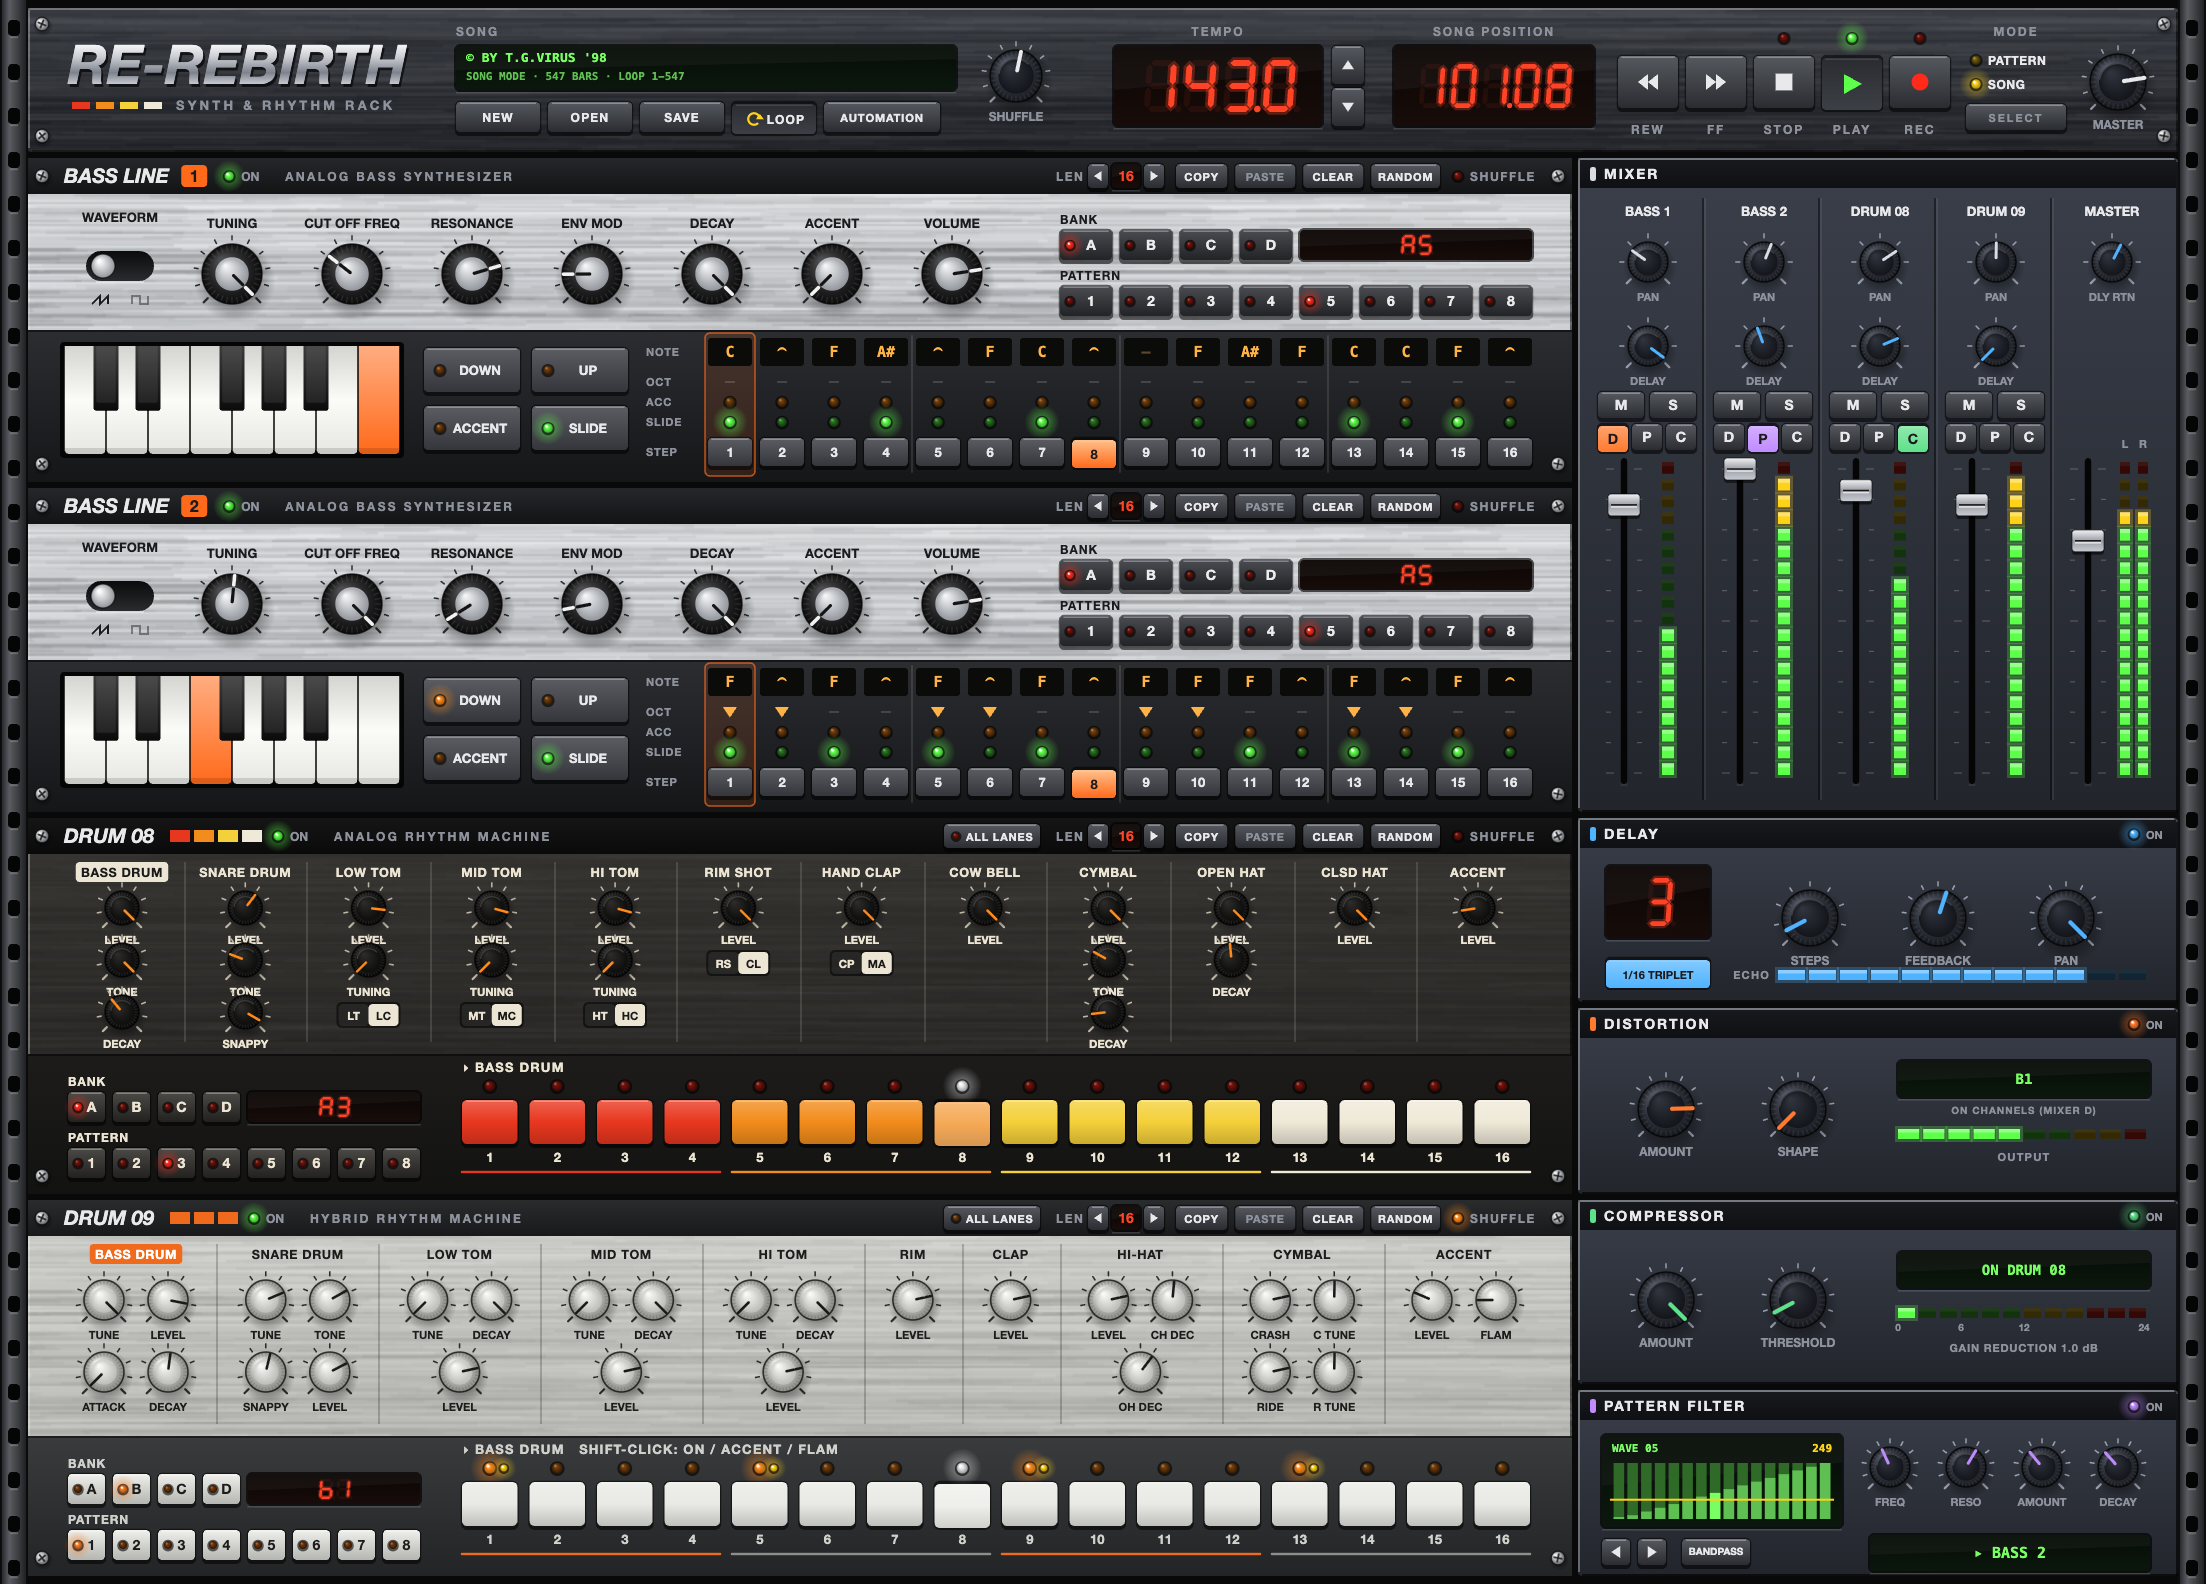
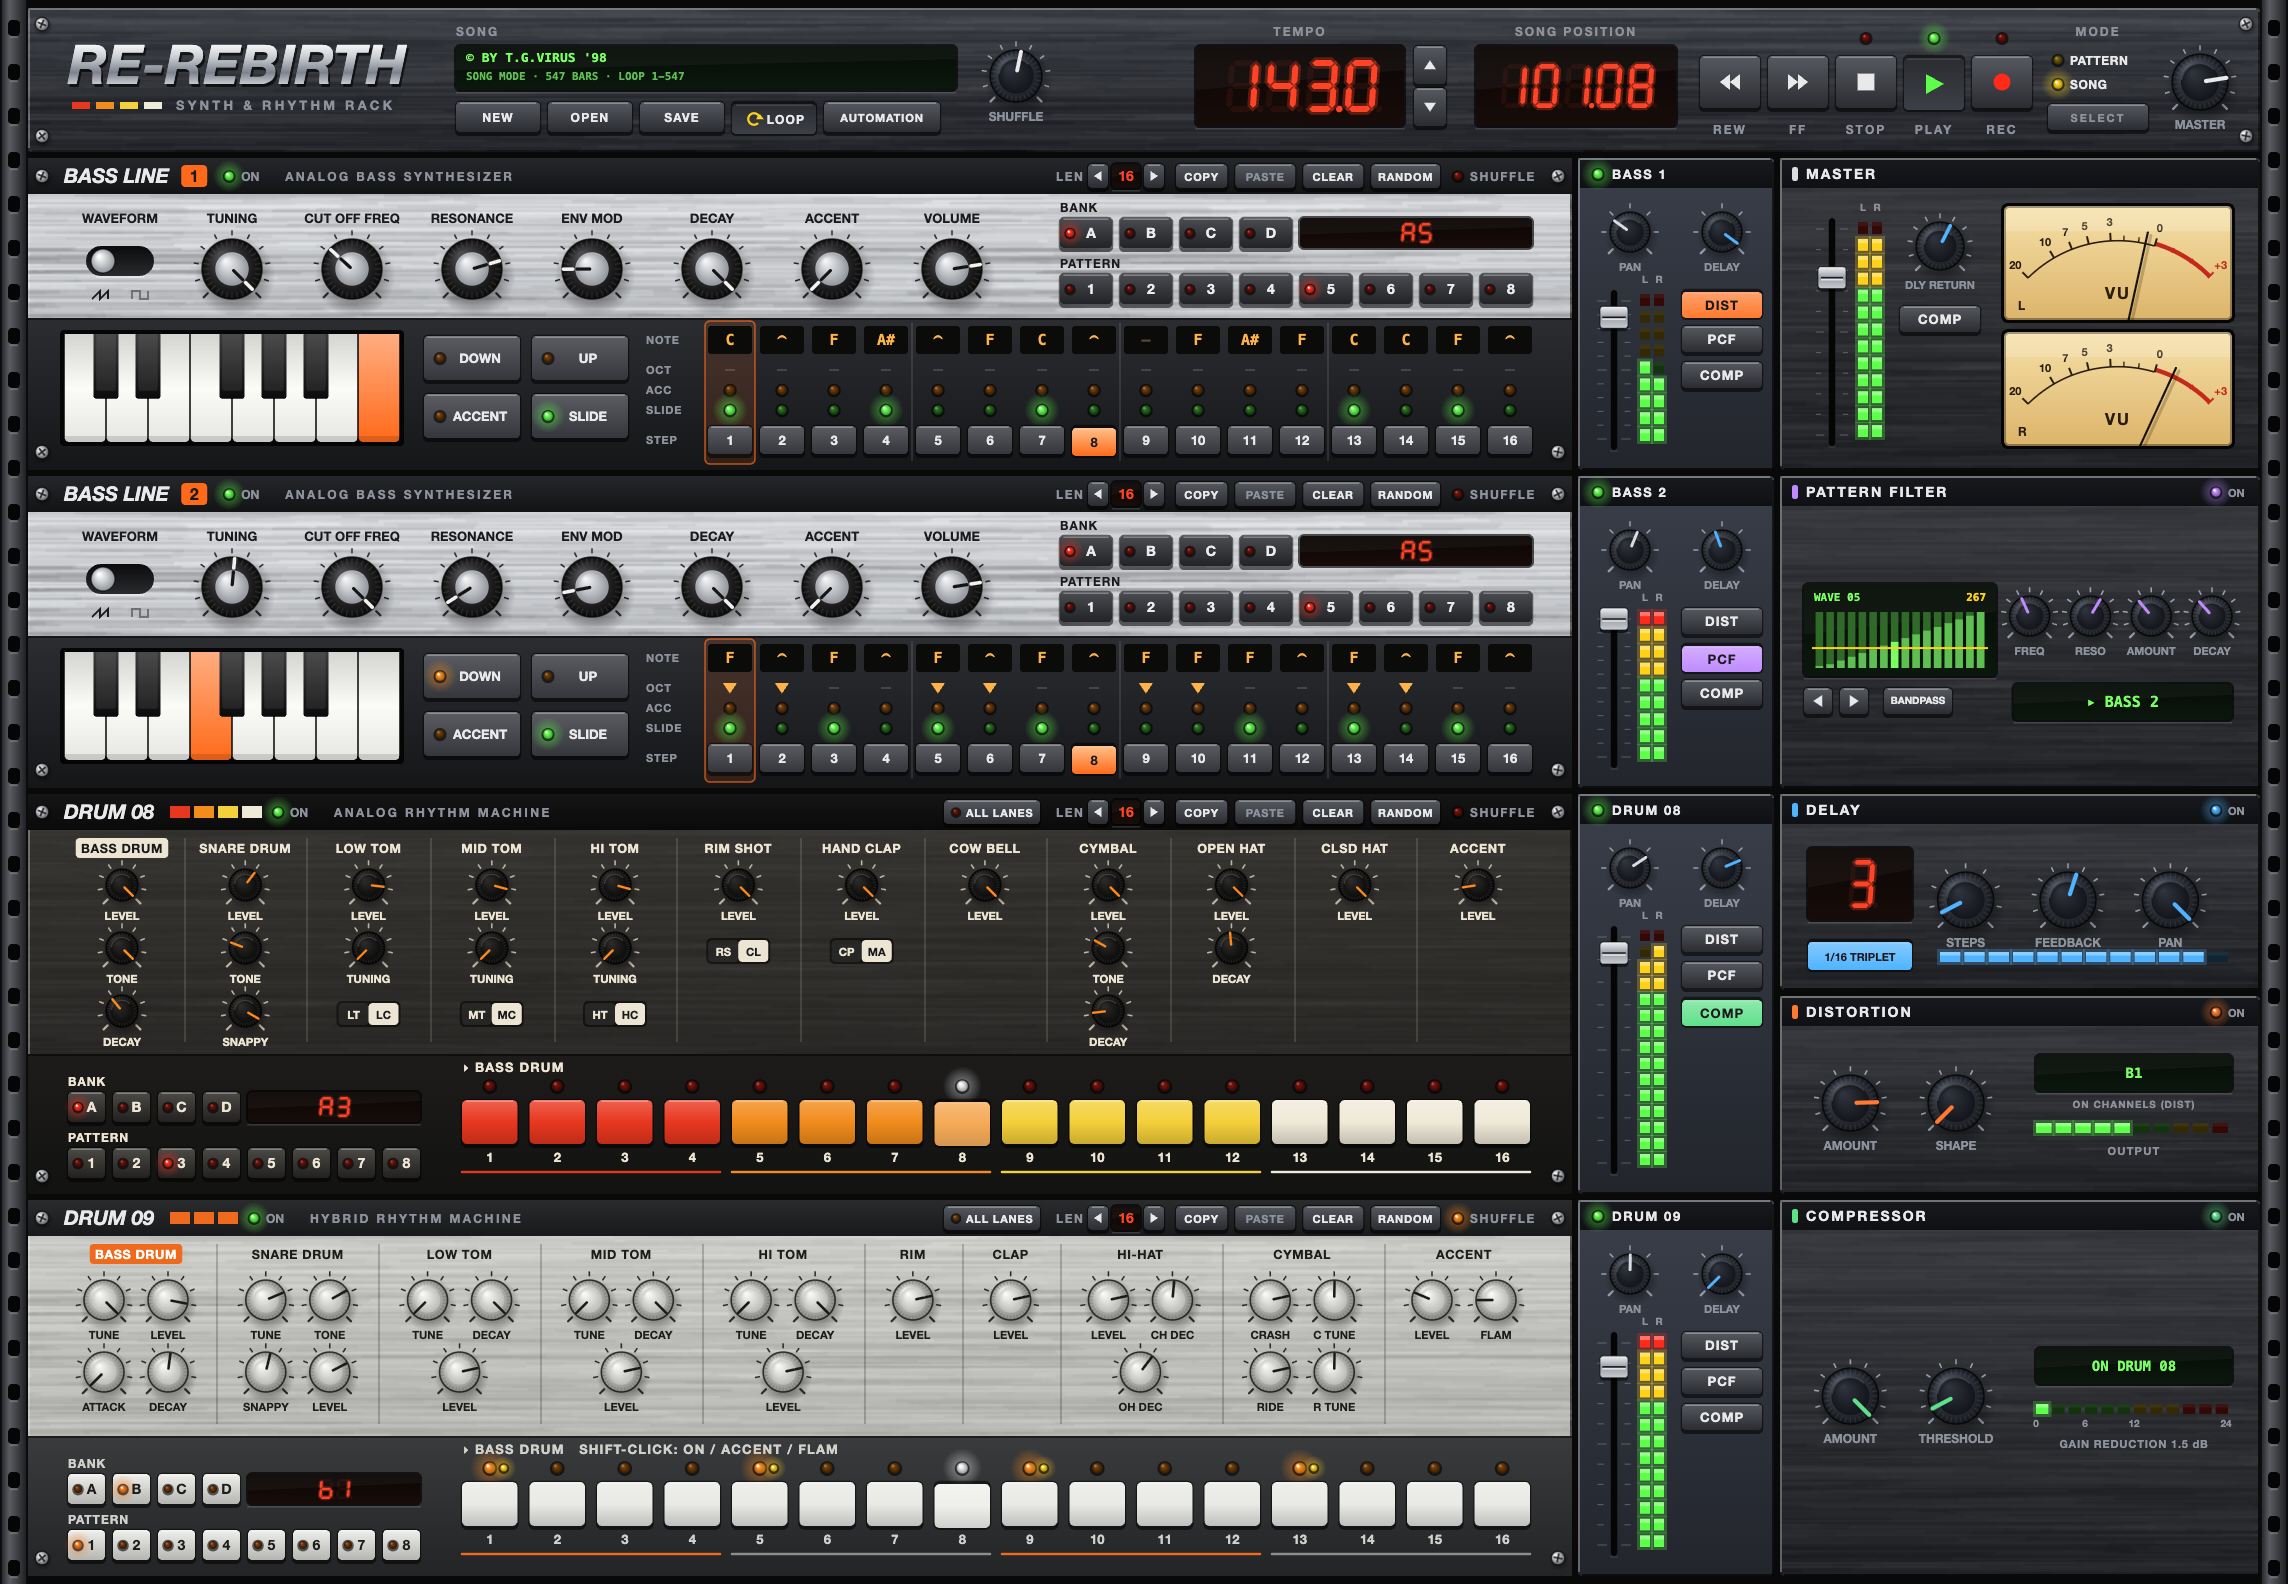
Release 0.3.0 with a fresh screenshot
Channel strips and the master's meters change how the rack looks, so the
README screenshot is retaken; the script that takes it now lives in tools/
so the next one is one command.

diff --git a/README.md b/README.md
@@ -1,6 +1,6 @@
 # Re-Rebirth
 
-A tribute to [ReBirth RB-338](https://en.wikipedia.org/wiki/ReBirth_RB-338) in the browser: two acid bass lines, two drum machines, a mixer with effects, and a pattern/song sequencer. It opens original ReBirth 2.0 songs (`.rbs`) and plays them back.
+A tribute to [ReBirth RB-338](https://en.wikipedia.org/wiki/ReBirth_RB-338) in the browser: two acid bass lines, two drum machines, a mixer with effects and VU meters, and a pattern/song sequencer. It opens original ReBirth 2.0 songs (`.rbs`) and plays them back.
 
 Everything is drawn on a canvas and every sound is synthesized live with the Web Audio API: no samples.
 
@@ -14,7 +14,8 @@ Everything is drawn on a canvas and every sound is synthesized live with the Web
 - **Drum 08:** analog-style rhythm machine. The LT/LC, MT/MC, HT/HC, RS/CL and CP/MA switches select congas, claves and maracas.
 - **Drum 09:** hybrid rhythm machine with per-step accent and flam.
 - **ALL LANES grid** on both drum machines: see and paint every instrument of a pattern at once.
-- **Mixer:** level, pan, delay send, mute/solo and distortion / pattern filter / compressor routing per channel, with meters.
+- **Channel strips** beside each instrument: on switch, pan, delay send, level fader with left/right meters, and distortion / pattern filter / compressor routing.
+- **Master:** fader with left/right meters, delay return, compressor on the master, and analogue VU needles; click them for a spectrum display.
 - **Effects:** tempo-synced delay, distortion, compressor and a pattern-controlled filter.
 - **Sequencer:** 32 patterns per device (banks A–D), length and shuffle per pattern, copy/paste/clear/random.
 - **Song mode:** play a song's arrangement and automation, loop a range, or arm REC and record pattern changes and knob moves.
@@ -62,7 +63,7 @@ The app is plain JavaScript with no framework, built with Vite:
 | `src/sequencer/` | Lookahead clock and pattern scheduling |
 | `src/song/` | Song model, playback/recording, `.rbs` reader, `.json` sessions |
 | `src/ui/` | Pointer handling and hit regions |
-| `tools/` | Offline rendering and analysis scripts used for calibration; `icons.mjs` renders the home-screen PNGs from `public/icon.svg` |
+| `tools/` | Offline rendering and analysis scripts used for calibration; `icons.mjs` renders the home-screen PNGs from `public/icon.svg`; `screenshot.mjs` takes this README's screenshot |
 
 ### Calibration tools
 

diff --git a/CHANGELOG.md b/CHANGELOG.md
@@ -1,9 +1,18 @@
 # Changelog
 
-## Unreleased
+## 0.3.0 — 2026-10-09
 
 ### New
+- **Channel strips.** Like on ReBirth, every instrument has its own mix strip right next to it: on switch, pan, delay send, a level fader with separate left and right meters, and DIST / PCF / COMP buttons.
+- **Master module.** Master fader with left/right meters, delay return and its own COMP button. The COMP buttons work as one group, so it's always visible where the single compressor sits (click the lit one to switch it off).
+- **VU needles and spectrum.** The master shows two backlit analogue VU meters; click them to switch to a spectrum display and back.
 - **Home screen icon.** "Add to Home Screen" on iPhone and iPad (and installing on Android or desktop Chrome) now gets a proper icon, and the app opens full screen without the browser bars.
+
+### Changed
+- Bass lines are a little more compact; Drum 08 got the room so its stacked knob labels no longer overlap.
+- Effect modules have a brushed grey finish and new places: pattern filter beside Bass Line 2, compressor beside Drum 09.
+- Mute and solo buttons are gone; each channel strip has an on switch instead.
+- Opening a ReBirth 2.0.1 song whose compressor is unassigned no longer puts it on the master.
 
 ## 0.2.0 — 2026-10-09
 
